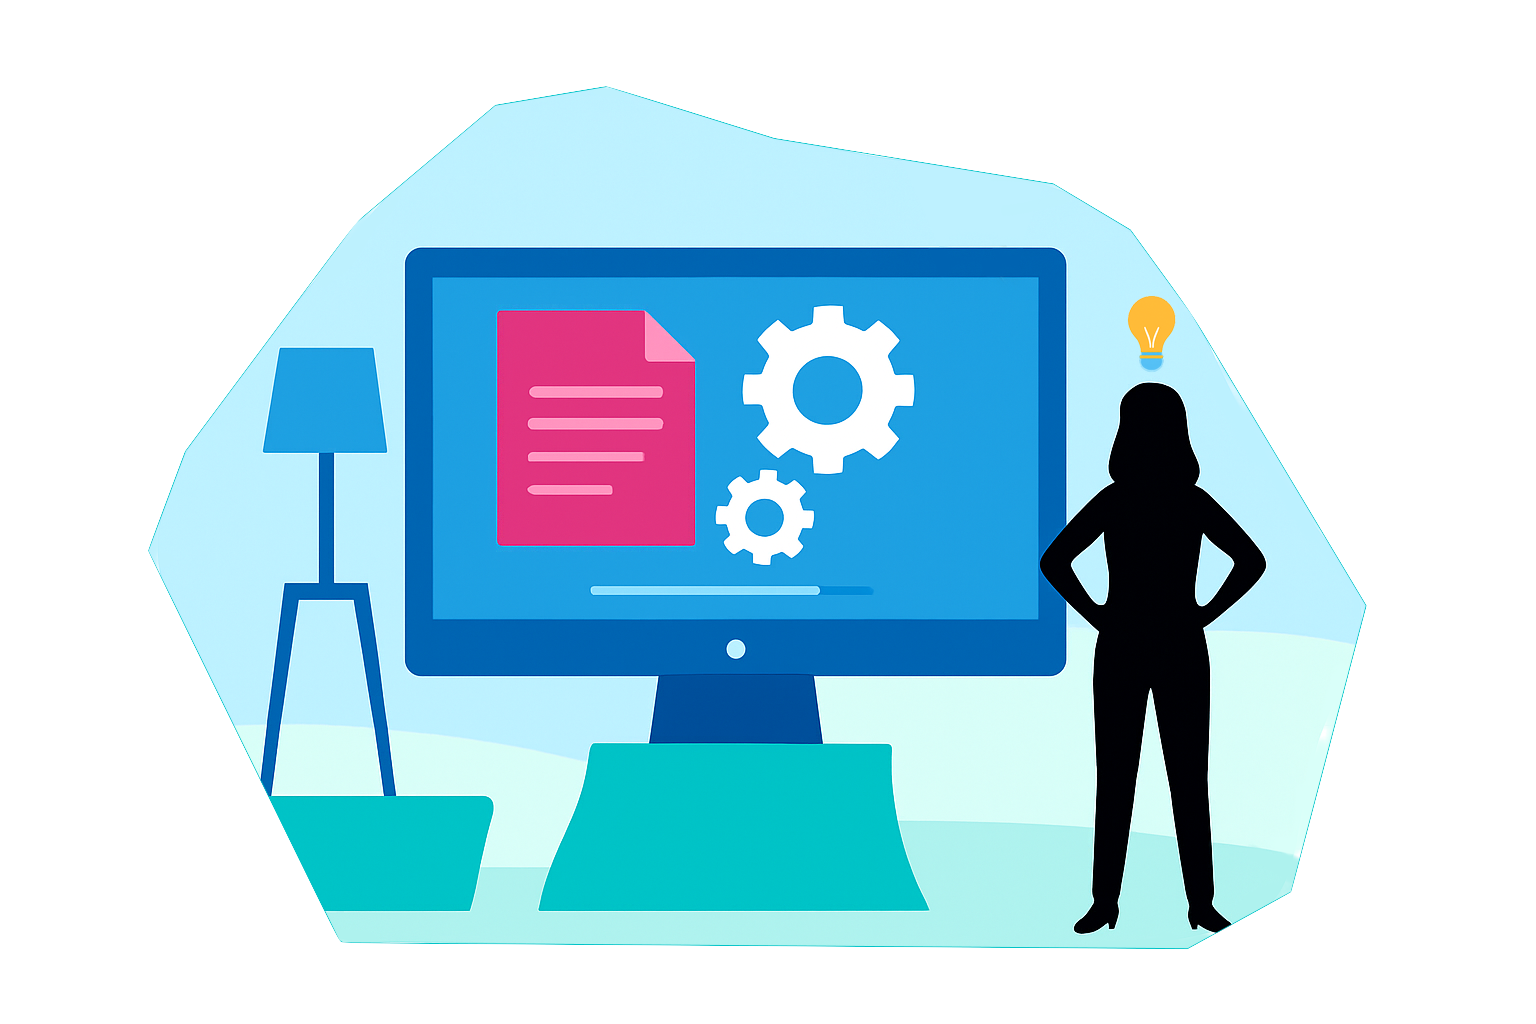
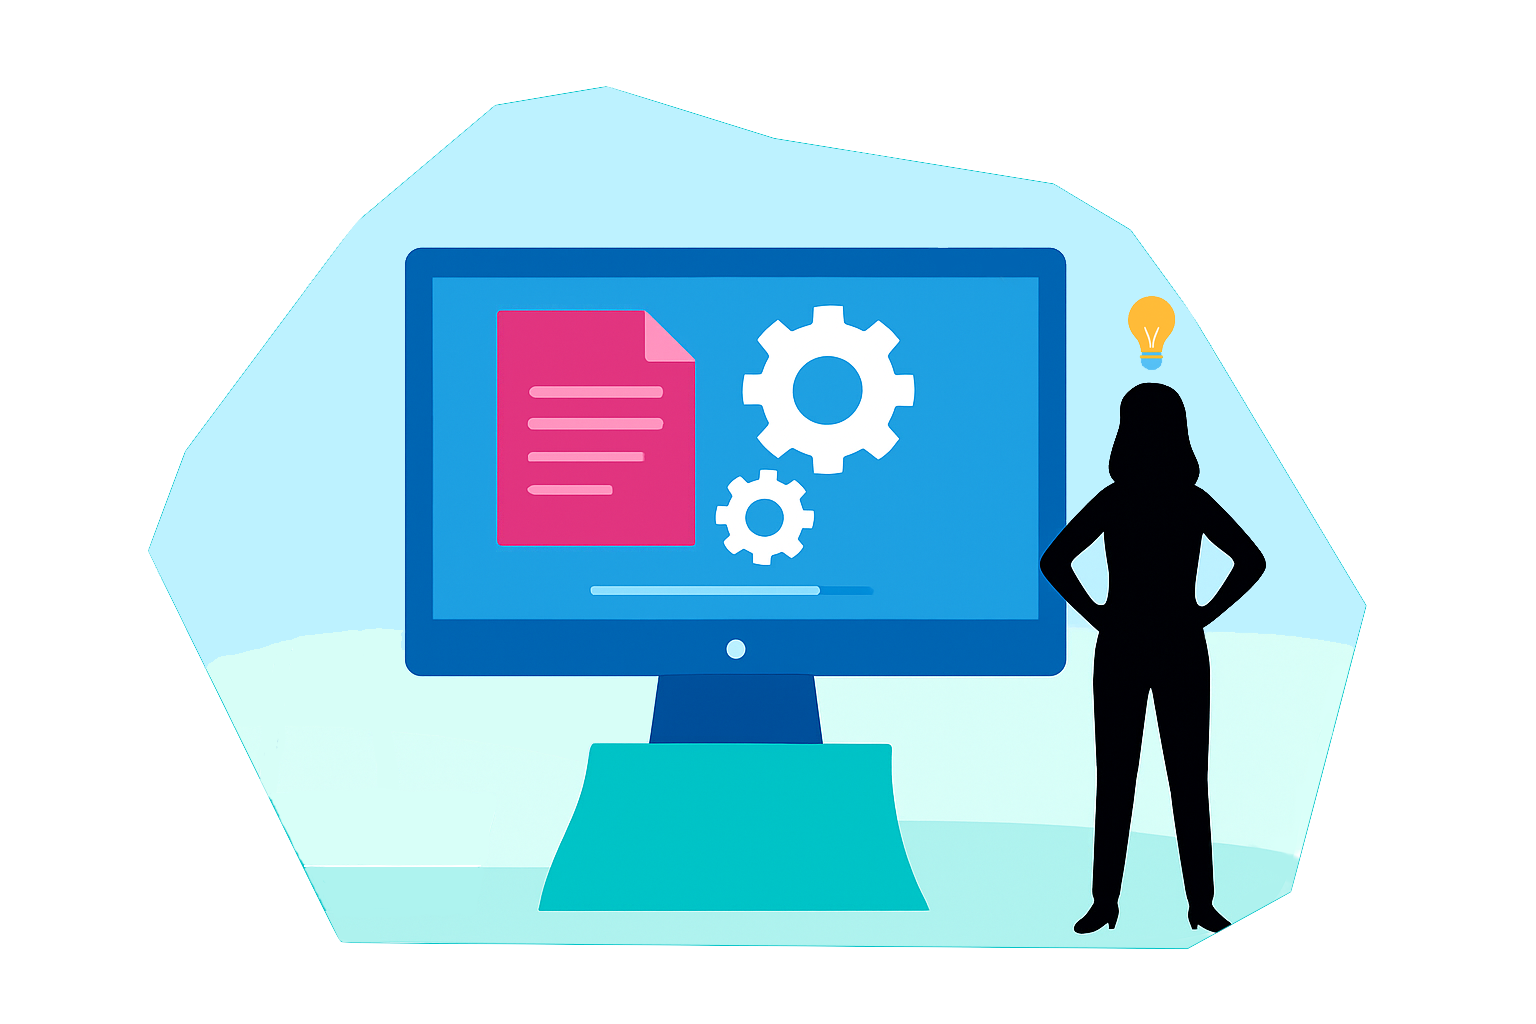
change filenames

Changed region(s): [[0.125, 0.3125, 0.4375, 0.9062]]

diff --git a/index.md b/index.md
@@ -38,7 +38,7 @@ ext-css:
     <div class="section-title">What We Offer</div>
     <div id="services-list">
       <div class="service">
-        <img class="service-img" alt="Service image - solutions" src="/assets/img/scale-flexiple/icon_solutions_emma.PNG" />
+        <img class="service-img" alt="Service image - solutions" src="/assets/img/scale-flexiple/icon_solutions_emma.png" />
         <div class="service-text">Designing One Health programs</div>
       </div>
       <div class="service">
